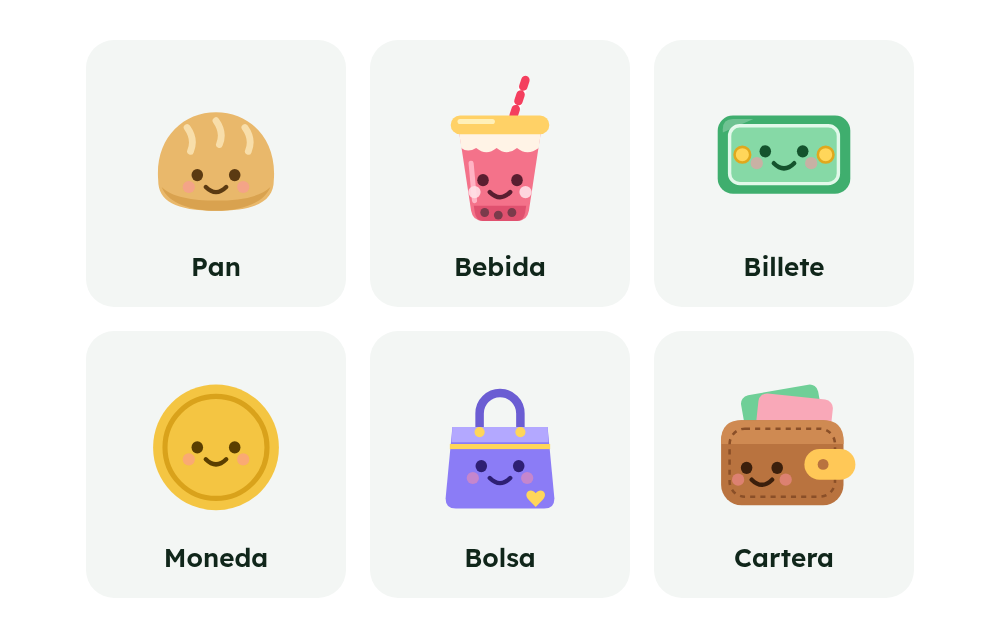
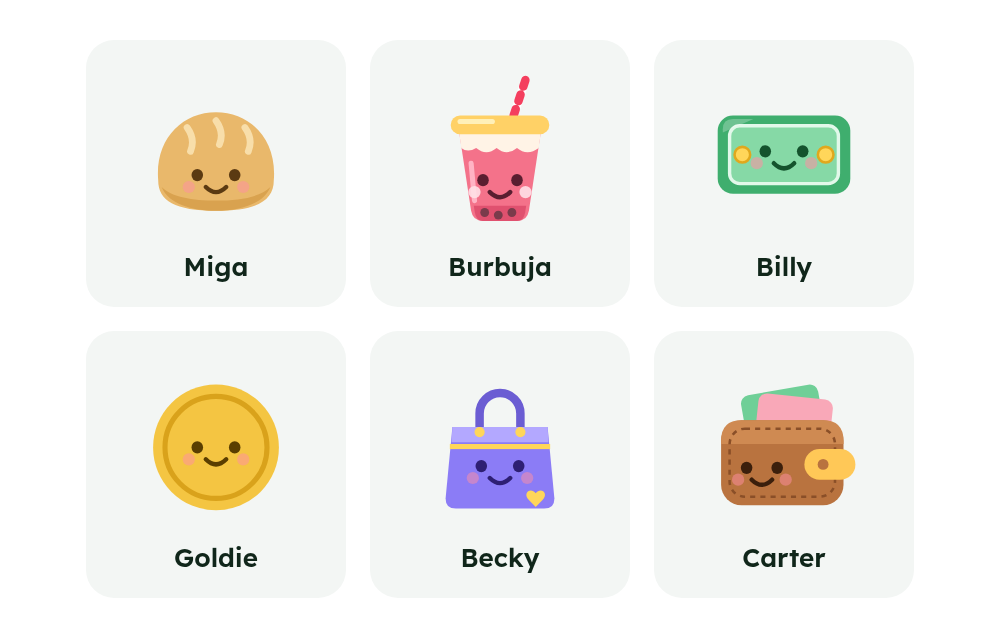
Give the mascots first names
Miga (bread), Burbuja (drink), Billy (banknote), Goldie (coin), Becky
(bag) and Carter (wallet). They show in the picker and in the reminder
title; the preview page was regenerated with them.

diff --git a/docs/preview/index.html b/docs/preview/index.html
@@ -15,12 +15,12 @@
 </head>
 <body>
   <main>
-    <figure><svg viewBox="0 0 100 100" role="img" aria-label="Pan"><path d="M16 66 C14 42 30 26 50 26 C70 26 86 42 84 66 C84 78 74 84 50 84 C26 84 16 78 16 66 Z" fill="#E9B86B"/><path d="M18 70 C22 80 36 84 50 84 C64 84 78 80 82 70 C76 76 64 78 50 78 C36 78 24 76 18 70 Z" fill="#D9A24F"/><path d="M33 35 q5 7 2 14 M50 31 q5 7 2 14 M67 35 q5 7 2 14" stroke="#F8DEAA" stroke-width="4" stroke-linecap="round" fill="none"/><circle cx="34" cy="70" r="3.6" fill="rgba(255,143,163,0.5)"/><circle cx="66" cy="70" r="3.6" fill="rgba(255,143,163,0.5)"/><ellipse cx="39" cy="63" rx="3.4" ry="3.6" fill="#5B3A12"/><ellipse cx="61" cy="63" rx="3.4" ry="3.6" fill="#5B3A12"/><path d="M44 70 Q50 76 56 70" stroke="#5B3A12" stroke-width="2.6" stroke-linecap="round" fill="none"/></svg><figcaption>Pan</figcaption></figure>
-    <figure><svg viewBox="0 0 100 100" role="img" aria-label="Bebida"><path d="M58 28 L65 7" stroke="#FFFFFF" stroke-width="5" stroke-linecap="round"/><path d="M58 28 L65 7" stroke="#F43F5E" stroke-width="5" stroke-linecap="round" stroke-dasharray="4 5"/><path d="M26 38 H74 L67 84 Q66 90 60 90 H40 Q34 90 33 84 Z" fill="#F4728A"/><path d="M26 38 H74 L72.8 47 Q66 52 60 47 Q54 52 48 47 Q42 52 36 47 Q31 50 27.2 47 Z" fill="#FFF3E6"/><path d="M33 56 L35 78" stroke="#FFB3C4" stroke-width="3" stroke-linecap="round"/><path d="M34.6 81 H65.4 L64.8 85 Q64 90 60 90 H40 Q36 90 35.2 85 Z" fill="#E0516F"/><circle cx="41" cy="85" r="2.6" fill="#7A3B4B"/><circle cx="49" cy="86.5" r="2.6" fill="#7A3B4B"/><circle cx="57" cy="85" r="2.6" fill="#7A3B4B"/><rect x="21" y="28" width="58" height="11" rx="5.5" fill="#FFD166"/><rect x="25" y="30" width="22" height="3" rx="1.5" fill="#FFF0B8"/><circle cx="35" cy="73" r="3.6" fill="rgba(255,224,231,0.9)"/><circle cx="65" cy="73" r="3.6" fill="rgba(255,224,231,0.9)"/><ellipse cx="40" cy="66" rx="3.4" ry="3.6" fill="#5A1E30"/><ellipse cx="60" cy="66" rx="3.4" ry="3.6" fill="#5A1E30"/><path d="M44 73 Q50 79 56 73" stroke="#5A1E30" stroke-width="2.6" stroke-linecap="round" fill="none"/></svg><figcaption>Bebida</figcaption></figure>
-    <figure><svg viewBox="0 0 100 100" role="img" aria-label="Billete"><rect x="11" y="28" width="78" height="46" rx="9" fill="#3FAE6E"/><rect x="18" y="34" width="64" height="34" rx="6" fill="#86D9A6" stroke="#E2F8EA" stroke-width="2"/><circle cx="25.5" cy="51" r="4.6" fill="#FFD65A" stroke="#E0A81E" stroke-width="1.5"/><circle cx="74.5" cy="51" r="4.6" fill="#FFD65A" stroke="#E0A81E" stroke-width="1.5"/><path d="M14 38 L32 30 H20 Q14 30 14 36 Z" fill="#FFFFFF" fill-opacity="0.25"/><circle cx="34" cy="56" r="3.6" fill="rgba(255,143,163,0.55)"/><circle cx="66" cy="56" r="3.6" fill="rgba(255,143,163,0.55)"/><ellipse cx="39" cy="49" rx="3.4" ry="3.6" fill="#14532D"/><ellipse cx="61" cy="49" rx="3.4" ry="3.6" fill="#14532D"/><path d="M44 56 Q50 62 56 56" stroke="#14532D" stroke-width="2.6" stroke-linecap="round" fill="none"/></svg><figcaption>Billete</figcaption></figure>
-    <figure><svg viewBox="0 0 100 100" role="img" aria-label="Moneda"><circle cx="50" cy="52" r="37" fill="#F4C542"/><circle cx="50" cy="52" r="30" fill="none" stroke="#D9A21B" stroke-width="3"/><circle cx="34" cy="59" r="3.6" fill="rgba(255,143,163,0.5)"/><circle cx="66" cy="59" r="3.6" fill="rgba(255,143,163,0.5)"/><ellipse cx="39" cy="52" rx="3.4" ry="3.6" fill="#5A3E00"/><ellipse cx="61" cy="52" rx="3.4" ry="3.6" fill="#5A3E00"/><path d="M44 59 Q50 65 56 59" stroke="#5A3E00" stroke-width="2.6" stroke-linecap="round" fill="none"/></svg><figcaption>Moneda</figcaption></figure>
-    <figure><svg viewBox="0 0 100 100" role="img" aria-label="Bolsa"><path d="M38 42 V32 a12 12 0 0 1 24 0 V42" fill="none" stroke="#6B5DD3" stroke-width="5" stroke-linecap="round"/><path d="M22 40 H78 L82 82 Q82 88 76 88 H24 Q18 88 18 82 Z" fill="#8B7CF6"/><path d="M22 40 H78 L78.5 49 H21.5 Z" fill="#B3A8FF"/><rect x="20.5" y="50" width="59" height="3" fill="#FFD65A"/><circle cx="38" cy="43" r="3" fill="#FFD65A"/><circle cx="62" cy="43" r="3" fill="#FFD65A"/><path d="M71 79 c-3 -4 -8 0 -4 4 l4 4 l4 -4 c4 -4 -1 -8 -4 -4 Z" fill="#FFD65A"/><circle cx="34" cy="70" r="3.6" fill="rgba(255,143,163,0.5)"/><circle cx="66" cy="70" r="3.6" fill="rgba(255,143,163,0.5)"/><ellipse cx="39" cy="63" rx="3.4" ry="3.6" fill="#2E1F73"/><ellipse cx="61" cy="63" rx="3.4" ry="3.6" fill="#2E1F73"/><path d="M44 70 Q50 76 56 70" stroke="#2E1F73" stroke-width="2.6" stroke-linecap="round" fill="none"/></svg><figcaption>Bolsa</figcaption></figure>
-    <figure><svg viewBox="0 0 100 100" role="img" aria-label="Cartera"><rect x="26" y="18" width="46" height="28" rx="5" fill="#6FCF97" transform="rotate(-10 49 32)"/><rect x="34" y="22" width="44" height="26" rx="5" fill="#F9A8B8" transform="rotate(6 56 35)"/><rect x="13" y="36" width="72" height="50" rx="12" fill="#B9733F"/><path d="M13 50 V48 Q13 36 25 36 H73 Q85 36 85 48 V50 Z" fill="#CF8A52"/><rect x="18" y="41" width="62" height="40" rx="9" fill="none" stroke="#8A4F28" stroke-width="1.5" stroke-dasharray="3 3"/><rect x="62" y="53" width="30" height="18" rx="9" fill="#FFC857"/><circle cx="73" cy="62" r="3.2" fill="#B9733F"/><circle cx="23" cy="71" r="3.6" fill="rgba(255,143,163,0.5)"/><circle cx="51" cy="71" r="3.6" fill="rgba(255,143,163,0.5)"/><ellipse cx="28" cy="64" rx="3.4" ry="3.6" fill="#3B1F0C"/><ellipse cx="46" cy="64" rx="3.4" ry="3.6" fill="#3B1F0C"/><path d="M31 71 Q37 77 43 71" stroke="#3B1F0C" stroke-width="2.6" stroke-linecap="round" fill="none"/></svg><figcaption>Cartera</figcaption></figure>
+    <figure><svg viewBox="0 0 100 100" role="img" aria-label="Miga"><path d="M16 66 C14 42 30 26 50 26 C70 26 86 42 84 66 C84 78 74 84 50 84 C26 84 16 78 16 66 Z" fill="#E9B86B"/><path d="M18 70 C22 80 36 84 50 84 C64 84 78 80 82 70 C76 76 64 78 50 78 C36 78 24 76 18 70 Z" fill="#D9A24F"/><path d="M33 35 q5 7 2 14 M50 31 q5 7 2 14 M67 35 q5 7 2 14" stroke="#F8DEAA" stroke-width="4" stroke-linecap="round" fill="none"/><circle cx="34" cy="70" r="3.6" fill="rgba(255,143,163,0.5)"/><circle cx="66" cy="70" r="3.6" fill="rgba(255,143,163,0.5)"/><ellipse cx="39" cy="63" rx="3.4" ry="3.6" fill="#5B3A12"/><ellipse cx="61" cy="63" rx="3.4" ry="3.6" fill="#5B3A12"/><path d="M44 70 Q50 76 56 70" stroke="#5B3A12" stroke-width="2.6" stroke-linecap="round" fill="none"/></svg><figcaption>Miga</figcaption></figure>
+    <figure><svg viewBox="0 0 100 100" role="img" aria-label="Burbuja"><path d="M58 28 L65 7" stroke="#FFFFFF" stroke-width="5" stroke-linecap="round"/><path d="M58 28 L65 7" stroke="#F43F5E" stroke-width="5" stroke-linecap="round" stroke-dasharray="4 5"/><path d="M26 38 H74 L67 84 Q66 90 60 90 H40 Q34 90 33 84 Z" fill="#F4728A"/><path d="M26 38 H74 L72.8 47 Q66 52 60 47 Q54 52 48 47 Q42 52 36 47 Q31 50 27.2 47 Z" fill="#FFF3E6"/><path d="M33 56 L35 78" stroke="#FFB3C4" stroke-width="3" stroke-linecap="round"/><path d="M34.6 81 H65.4 L64.8 85 Q64 90 60 90 H40 Q36 90 35.2 85 Z" fill="#E0516F"/><circle cx="41" cy="85" r="2.6" fill="#7A3B4B"/><circle cx="49" cy="86.5" r="2.6" fill="#7A3B4B"/><circle cx="57" cy="85" r="2.6" fill="#7A3B4B"/><rect x="21" y="28" width="58" height="11" rx="5.5" fill="#FFD166"/><rect x="25" y="30" width="22" height="3" rx="1.5" fill="#FFF0B8"/><circle cx="35" cy="73" r="3.6" fill="rgba(255,224,231,0.9)"/><circle cx="65" cy="73" r="3.6" fill="rgba(255,224,231,0.9)"/><ellipse cx="40" cy="66" rx="3.4" ry="3.6" fill="#5A1E30"/><ellipse cx="60" cy="66" rx="3.4" ry="3.6" fill="#5A1E30"/><path d="M44 73 Q50 79 56 73" stroke="#5A1E30" stroke-width="2.6" stroke-linecap="round" fill="none"/></svg><figcaption>Burbuja</figcaption></figure>
+    <figure><svg viewBox="0 0 100 100" role="img" aria-label="Billy"><rect x="11" y="28" width="78" height="46" rx="9" fill="#3FAE6E"/><rect x="18" y="34" width="64" height="34" rx="6" fill="#86D9A6" stroke="#E2F8EA" stroke-width="2"/><circle cx="25.5" cy="51" r="4.6" fill="#FFD65A" stroke="#E0A81E" stroke-width="1.5"/><circle cx="74.5" cy="51" r="4.6" fill="#FFD65A" stroke="#E0A81E" stroke-width="1.5"/><path d="M14 38 L32 30 H20 Q14 30 14 36 Z" fill="#FFFFFF" fill-opacity="0.25"/><circle cx="34" cy="56" r="3.6" fill="rgba(255,143,163,0.55)"/><circle cx="66" cy="56" r="3.6" fill="rgba(255,143,163,0.55)"/><ellipse cx="39" cy="49" rx="3.4" ry="3.6" fill="#14532D"/><ellipse cx="61" cy="49" rx="3.4" ry="3.6" fill="#14532D"/><path d="M44 56 Q50 62 56 56" stroke="#14532D" stroke-width="2.6" stroke-linecap="round" fill="none"/></svg><figcaption>Billy</figcaption></figure>
+    <figure><svg viewBox="0 0 100 100" role="img" aria-label="Goldie"><circle cx="50" cy="52" r="37" fill="#F4C542"/><circle cx="50" cy="52" r="30" fill="none" stroke="#D9A21B" stroke-width="3"/><circle cx="34" cy="59" r="3.6" fill="rgba(255,143,163,0.5)"/><circle cx="66" cy="59" r="3.6" fill="rgba(255,143,163,0.5)"/><ellipse cx="39" cy="52" rx="3.4" ry="3.6" fill="#5A3E00"/><ellipse cx="61" cy="52" rx="3.4" ry="3.6" fill="#5A3E00"/><path d="M44 59 Q50 65 56 59" stroke="#5A3E00" stroke-width="2.6" stroke-linecap="round" fill="none"/></svg><figcaption>Goldie</figcaption></figure>
+    <figure><svg viewBox="0 0 100 100" role="img" aria-label="Becky"><path d="M38 42 V32 a12 12 0 0 1 24 0 V42" fill="none" stroke="#6B5DD3" stroke-width="5" stroke-linecap="round"/><path d="M22 40 H78 L82 82 Q82 88 76 88 H24 Q18 88 18 82 Z" fill="#8B7CF6"/><path d="M22 40 H78 L78.5 49 H21.5 Z" fill="#B3A8FF"/><rect x="20.5" y="50" width="59" height="3" fill="#FFD65A"/><circle cx="38" cy="43" r="3" fill="#FFD65A"/><circle cx="62" cy="43" r="3" fill="#FFD65A"/><path d="M71 79 c-3 -4 -8 0 -4 4 l4 4 l4 -4 c4 -4 -1 -8 -4 -4 Z" fill="#FFD65A"/><circle cx="34" cy="70" r="3.6" fill="rgba(255,143,163,0.5)"/><circle cx="66" cy="70" r="3.6" fill="rgba(255,143,163,0.5)"/><ellipse cx="39" cy="63" rx="3.4" ry="3.6" fill="#2E1F73"/><ellipse cx="61" cy="63" rx="3.4" ry="3.6" fill="#2E1F73"/><path d="M44 70 Q50 76 56 70" stroke="#2E1F73" stroke-width="2.6" stroke-linecap="round" fill="none"/></svg><figcaption>Becky</figcaption></figure>
+    <figure><svg viewBox="0 0 100 100" role="img" aria-label="Carter"><rect x="26" y="18" width="46" height="28" rx="5" fill="#6FCF97" transform="rotate(-10 49 32)"/><rect x="34" y="22" width="44" height="26" rx="5" fill="#F9A8B8" transform="rotate(6 56 35)"/><rect x="13" y="36" width="72" height="50" rx="12" fill="#B9733F"/><path d="M13 50 V48 Q13 36 25 36 H73 Q85 36 85 48 V50 Z" fill="#CF8A52"/><rect x="18" y="41" width="62" height="40" rx="9" fill="none" stroke="#8A4F28" stroke-width="1.5" stroke-dasharray="3 3"/><rect x="62" y="53" width="30" height="18" rx="9" fill="#FFC857"/><circle cx="73" cy="62" r="3.2" fill="#B9733F"/><circle cx="23" cy="71" r="3.6" fill="rgba(255,143,163,0.5)"/><circle cx="51" cy="71" r="3.6" fill="rgba(255,143,163,0.5)"/><ellipse cx="28" cy="64" rx="3.4" ry="3.6" fill="#3B1F0C"/><ellipse cx="46" cy="64" rx="3.4" ry="3.6" fill="#3B1F0C"/><path d="M31 71 Q37 77 43 71" stroke="#3B1F0C" stroke-width="2.6" stroke-linecap="round" fill="none"/></svg><figcaption>Carter</figcaption></figure>
   </main>
 </body>
 </html>

diff --git a/src/mascotas.ts b/src/mascotas.ts
@@ -1,11 +1,11 @@
-// The mascot the user can pick (pure data; the drawings live in Mascota.tsx).
+// The mascot the user can pick (pure data; the drawings live in Mascota.tsx). Each has a first name, the same in both languages.
 export const MASCOTAS = [
-  { id: 'pan', nombre: 'Pan' },
-  { id: 'bebida', nombre: 'Bebida' },
-  { id: 'billete', nombre: 'Billete' },
-  { id: 'moneda', nombre: 'Moneda' },
-  { id: 'bolsa', nombre: 'Bolsa' },
-  { id: 'cartera', nombre: 'Cartera' },
+  { id: 'pan', nombre: 'Miga' },
+  { id: 'bebida', nombre: 'Burbuja' },
+  { id: 'billete', nombre: 'Billy' },
+  { id: 'moneda', nombre: 'Goldie' },
+  { id: 'bolsa', nombre: 'Becky' },
+  { id: 'cartera', nombre: 'Carter' },
 ] as const;
 export type MascotaId = (typeof MASCOTAS)[number]['id'];
 export const MASCOTA_INICIAL: MascotaId = 'pan';

diff --git a/src/idioma.ts b/src/idioma.ts
@@ -189,12 +189,12 @@ export const EN: Record<string, string> = {
   'Fucsia': 'Fuchsia',
   'Café': 'Brown',
   'Pizarra': 'Slate',
-  'Pan': 'Bread',
-  'Bebida': 'Drink',
-  'Billete': 'Banknote',
-  'Moneda': 'Coin',
-  'Bolsa': 'Bag',
-  'Cartera': 'Wallet',
+  'Miga': 'Miga',
+  'Burbuja': 'Burbuja',
+  'Billy': 'Billy',
+  'Goldie': 'Goldie',
+  'Becky': 'Becky',
+  'Carter': 'Carter',
   'Escribe cuánto te pagaron': 'Enter how much they paid',
   'Es más de lo que falta ({monto})': 'That is more than what is left ({monto})',
   'Anoté el pago de {monto}': 'I noted the payment of {monto}',

diff --git a/src/preview.test.ts b/src/preview.test.ts
@@ -11,6 +11,6 @@ test('la pagina de previews es la que sale de las mascotas de la app (si no: npm
 
 test('la pagina trae las seis mascotas con su nombre', () => {
   const html = generarHtml(leer('./Mascota.tsx'), leer('./mascotas.ts'));
-  for (const n of ['Pan', 'Bebida', 'Billete', 'Moneda', 'Bolsa', 'Cartera']) assert.ok(html.includes(`<figcaption>${n}</figcaption>`), n);
+  for (const n of ['Miga', 'Burbuja', 'Billy', 'Goldie', 'Becky', 'Carter']) assert.ok(html.includes(`<figcaption>${n}</figcaption>`), n);
   assert.equal((html.match(/<figure>/g) ?? []).length, 6);
 });
